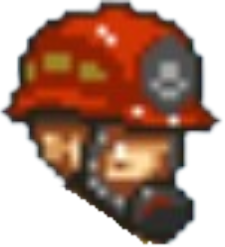
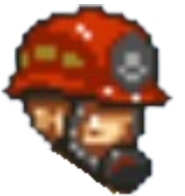
Improve character selection GUI

diff --git a/src/client/player/view/MainMenuView.java b/src/client/player/view/MainMenuView.java
@@ -18,6 +18,7 @@ import javafx.scene.text.Font;
 import javafx.stage.Stage;
 import javafx.util.Duration;
 import java.io.File;
+import java.util.Random;
 
 public class MainMenuView {
 
@@ -35,8 +36,9 @@ public class MainMenuView {
     private Button soundButton;
     private Button creditsBtn;
     private Button closeHowToPlayBtn;
-    private Button characterSelectBtn; // New button to open character selection overlay
+    private Button characterSelectBtn; // Button to open character selection overlay
     private Button closeCharacterOverlayBtn; // Close button for character selection overlay
+    private ImageView charSelectView; // ImageView for character select button
 
     // Fonts
     private Font pressStartFont;
@@ -46,6 +48,10 @@ public class MainMenuView {
     private int selectedCharacterIndex = 1; // Default to character 1
     private ImageView[] characterViews; // To track character ImageViews for glow effect
     private Timeline[] characterAnimations; // To manage animations for each character
+    private Image[] characterHeadImages; // To store head images for character select button
+
+    // Random number generator for randomizer
+    private Random random = new Random();
 
     public int getSelectedCharacterIndex() {
         return selectedCharacterIndex;
@@ -79,6 +85,12 @@ public class MainMenuView {
         }
     }
 
+    // Helper method to update the character select button image
+    private void updateCharacterSelectButtonImage() {
+        // selectedCharacterIndex is 1 to 4, map to array index 0 to 3
+        charSelectView.setImage(characterHeadImages[selectedCharacterIndex - 1]);
+    }
+
     public void initializeUI(Stage primaryStage) {
         // Load PressStart2P font
         try {
@@ -88,6 +100,12 @@ public class MainMenuView {
             System.err.println("Failed to load font: res/fonts/PressStart2P-Regular.ttf. Using default font.");
             pressStartFont = Font.font("System", 20);
             pressStartFontLarge = Font.font("System", 30);
+        }
+
+        // Preload character head images (char1.png to char4.png)
+        characterHeadImages = new Image[4]; // Only 4 characters
+        for (int i = 1; i <= 4; i++) {
+            characterHeadImages[i - 1] = new Image("file:res/images/buttons/menu buttons/char" + i + ".png");
         }
 
         // Main root container
@@ -223,8 +241,7 @@ public class MainMenuView {
 
         // --- CHARACTER SELECT BUTTON ---
         characterSelectBtn = new Button();
-        Image charSelectImg = new Image("file:res/images/buttons/menu buttons/char1.png");
-        ImageView charSelectView = new ImageView(charSelectImg);
+        charSelectView = new ImageView(characterHeadImages[0]); // Default to char1.png
         charSelectView.setPreserveRatio(true);
         charSelectView.setFitWidth(60);
         charSelectView.setFitHeight(60);
@@ -332,13 +349,14 @@ public class MainMenuView {
                 System.out.println("Character " + index + " selected");
                 updateGlowEffect();
                 manageSelectedAnimation();
+                updateCharacterSelectButtonImage(); // Update the button image
             });
 
             characterContainer.getChildren().add(charButton);
         }
 
-        // Add Randomizer (char5.png)
-        Image randomizerImg = new Image("file:res/images/buttons/menu buttons/char5.png");
+        // Add Randomizer (randomizer.png)
+        Image randomizerImg = new Image("file:res/images/buttons/menu buttons/randomizer.png");
         ImageView randomizerView = new ImageView(randomizerImg);
         randomizerView.setFitWidth(75);
         randomizerView.setFitHeight(75);
@@ -355,10 +373,12 @@ public class MainMenuView {
 
         // Selection logic for randomizer
         randomizerButton.setOnAction(e -> {
-            selectedCharacterIndex = 5;
-            System.out.println("Randomizer (Character 5) selected");
+            // Randomly select a character between 1 and 4
+            selectedCharacterIndex = random.nextInt(4) + 1; // Generates 1 to 4
+            System.out.println("Random character selected: Character " + selectedCharacterIndex);
             updateGlowEffect();
-            stopAllAnimations(); // Randomizer has no animation
+            manageSelectedAnimation();
+            updateCharacterSelectButtonImage(); // Update the button image to the randomly selected character
         });
 
         characterContainer.getChildren().add(randomizerButton);
@@ -410,12 +430,13 @@ public class MainMenuView {
         closeCharacterOverlayBtn.setOnAction(e -> {
             characterOverlayPane.setVisible(false);
             stopAllAnimations();
+            updateCharacterSelectButtonImage(); // Ensure the button image reflects the last selection
         });
-        VBox.setMargin(closeCharacterOverlayBtn, new Insets(-30, 0, 0, 0));
+        VBox.setMargin(closeCharacterOverlayBtn, new Insets(20, 0, 0, 0)); // Increased margin to move close button down
 
         // --- ADD CHARACTER SELECT TEXT ---
         Label characterSelectText = new Label("CHARACTER SELECT");
-        characterSelectText.setFont(pressStartFont);
+        characterSelectText.setFont(Font.loadFont("file:res/fonts/PressStart2P-Regular.ttf", 40)); // Increased text size to 40
         characterSelectText.setTextFill(Color.WHITE);
         characterSelectText.setAlignment(Pos.CENTER);
 
